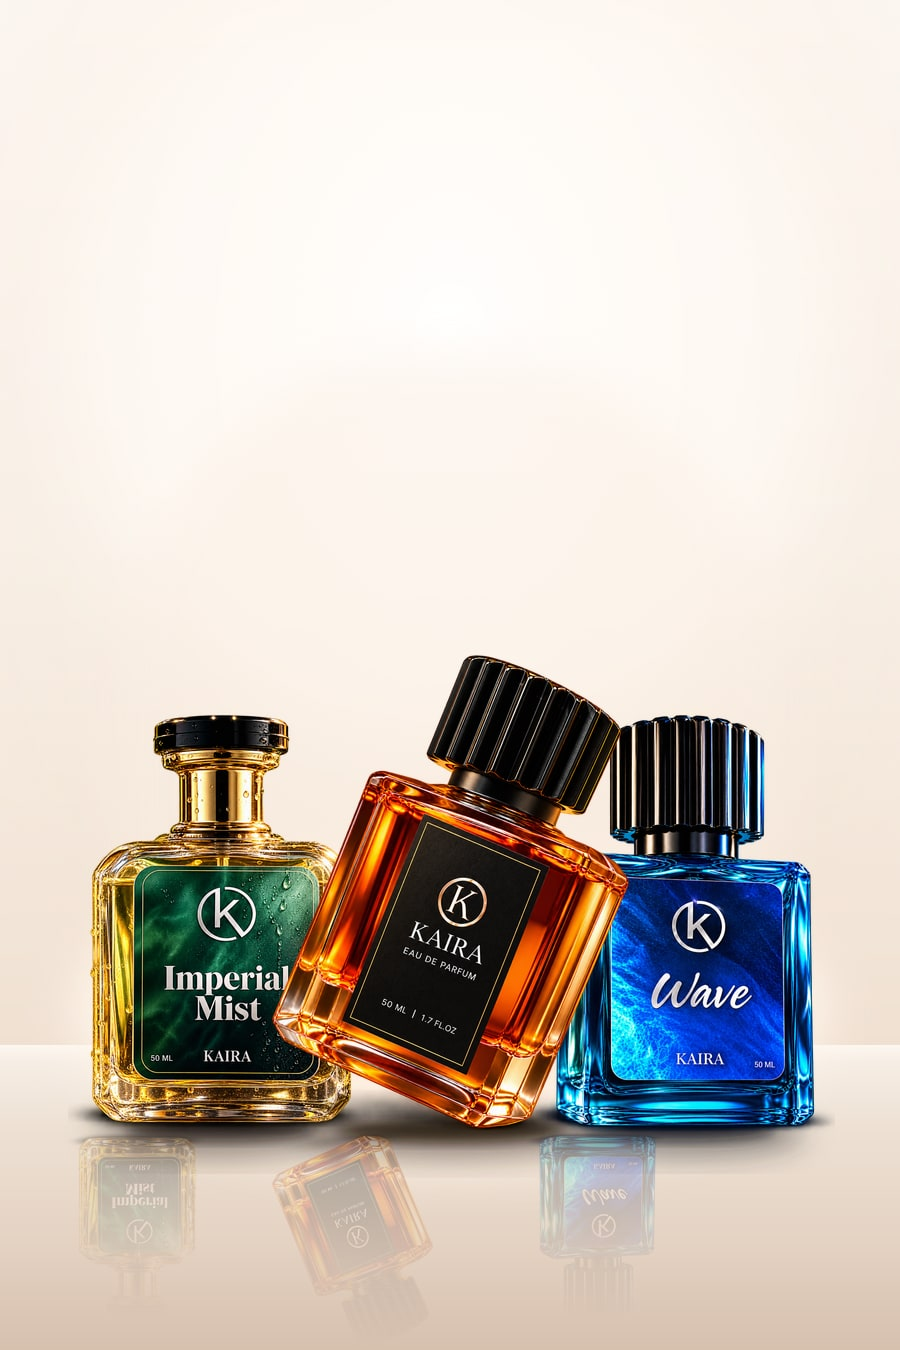
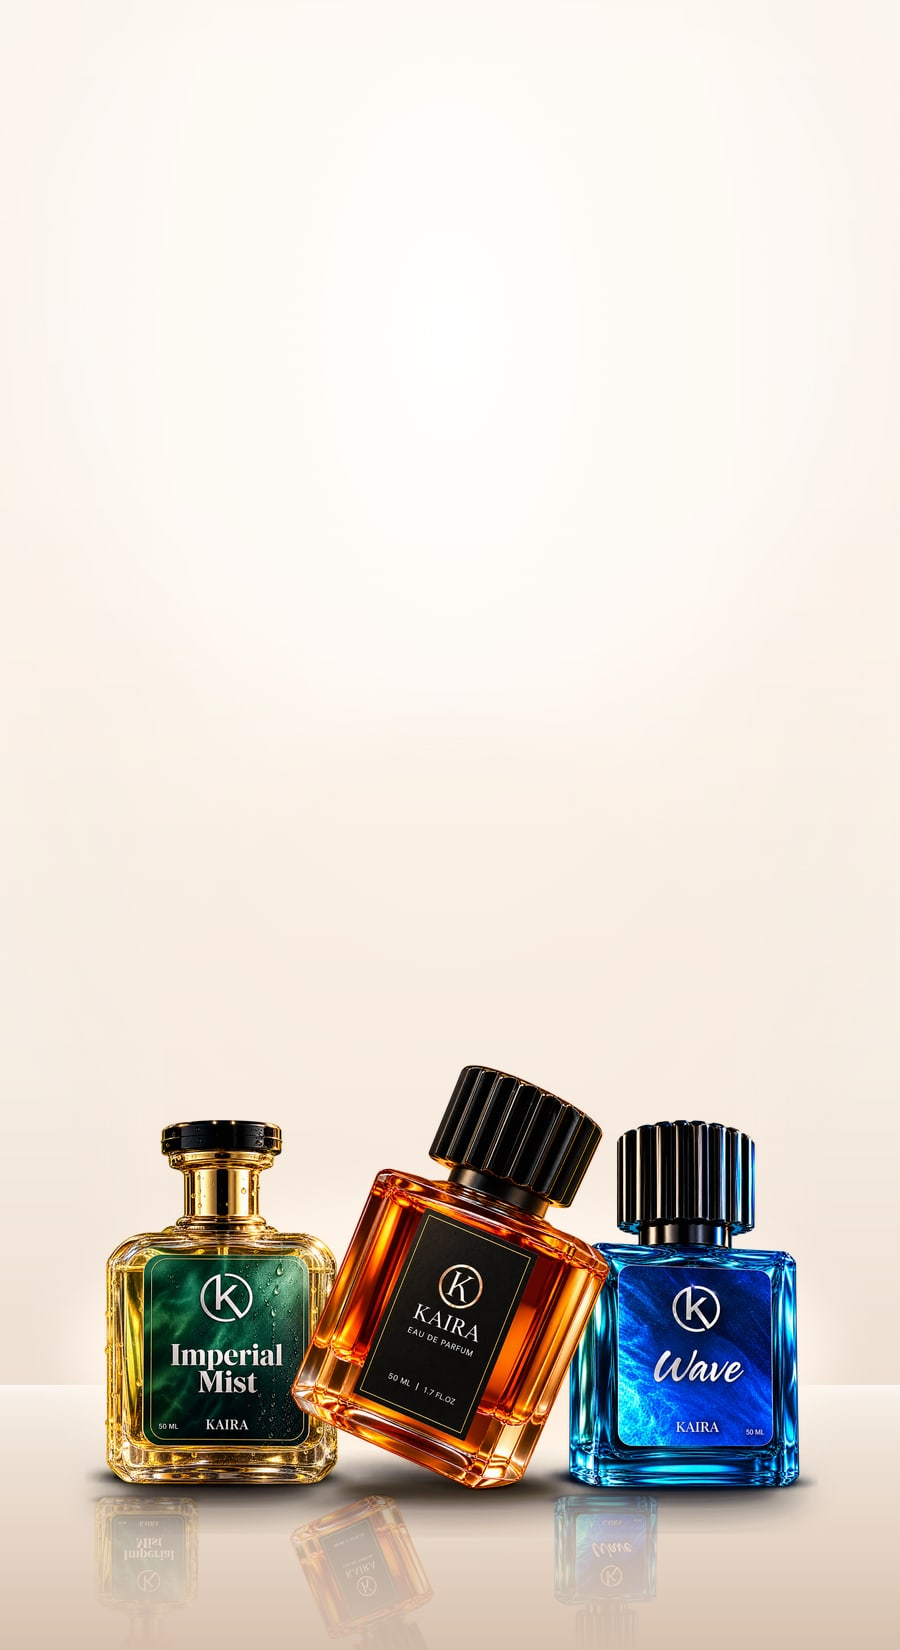
Show 4 products in 2 lines on phone, adjust mobile hero bottles lower to ensure 100% clear text and frosted trust badges

Changed region(s): [[0.0, 0.4667, 1.0, 0.9644]]

diff --git a/src/App.css b/src/App.css
@@ -6264,13 +6264,13 @@ a.hover-text-primary:hover {
     flex: none !important;
   }
 
-  /* 2. Hero Section (Spacious Luxury Mobile Layout) */
+  /* 2. Hero Section (Spacious Luxury Mobile Layout with Ultra-Clear Text) */
   .kaira-bespoke-hero {
-    min-height: 640px !important;
+    min-height: 720px !important;
   }
   .min-vh-hero {
-    min-height: 640px !important;
-    padding: 44px 0 36px !important;
+    min-height: 720px !important;
+    padding: 36px 0 28px !important;
     display: flex !important;
     flex-direction: column !important;
     justify-content: flex-start !important;
@@ -6286,51 +6286,83 @@ a.hover-text-primary:hover {
   .kaira-hero-backdrop-overlay {
     background: linear-gradient(
       180deg,
-      rgba(251, 245, 239, 0.92) 0%,
-      rgba(251, 245, 239, 0.72) 36%,
-      rgba(251, 245, 239, 0.2) 62%,
-      rgba(251, 245, 239, 0) 100%
+      rgba(253, 248, 244, 0.97) 0%,
+      rgba(253, 248, 244, 0.92) 48%,
+      rgba(253, 248, 244, 0.35) 64%,
+      rgba(253, 248, 244, 0) 100%
     ) !important;
   }
+  .kaira-hero-eyebrow {
+    font-size: 10.5px !important;
+    font-weight: 800 !important;
+    letter-spacing: 0.22em !important;
+    color: #8c6820 !important;
+  }
   .kaira-hero-headline {
-    font-size: 28px !important;
-    line-height: 1.18 !important;
+    font-size: 32px !important;
+    font-weight: 600 !important;
+    line-height: 1.16 !important;
+    color: #120f0e !important;
     margin-bottom: 12px !important;
   }
+  .kaira-hero-headline-italic {
+    color: #63121d !important;
+    font-style: italic !important;
+  }
   .kaira-hero-description {
-    font-size: 13px !important;
-    line-height: 1.55 !important;
+    font-size: 13.5px !important;
+    font-weight: 500 !important;
+    color: #2b2521 !important;
+    line-height: 1.58 !important;
     margin-bottom: 20px !important;
   }
   .kaira-hero-actions {
-    margin-bottom: 20px !important;
+    margin-bottom: 18px !important;
     display: flex !important;
     justify-content: flex-start !important;
   }
   .kaira-hero-btn-primary {
     width: auto !important;
-    max-width: 240px !important;
+    max-width: 260px !important;
     display: inline-flex !important;
-    padding: 10px 22px !important;
+    padding: 12px 26px !important;
     font-size: 10px !important;
-    letter-spacing: 0.14em !important;
-    border-radius: 2px !important;
+    font-weight: 700 !important;
+    letter-spacing: 0.16em !important;
+    border-radius: 3px !important;
+    background-color: #5d0f1a !important;
+    box-shadow: 0 4px 16px rgba(93, 15, 26, 0.35) !important;
   }
   .kaira-hero-trust-row {
-    padding-top: 16px !important;
+    padding-top: 14px !important;
     display: grid !important;
     grid-template-columns: repeat(2, 1fr) !important;
-    gap: 10px 8px !important;
+    gap: 8px !important;
+    border-top: 1px solid rgba(140, 104, 32, 0.16) !important;
   }
   .kaira-trust-item {
-    gap: 6px !important;
+    background: rgba(255, 255, 255, 0.92) !important;
+    backdrop-filter: blur(8px) !important;
+    -webkit-backdrop-filter: blur(8px) !important;
+    border: 1px solid rgba(255, 255, 255, 0.95) !important;
+    box-shadow: 0 2px 8px rgba(0, 0, 0, 0.04) !important;
+    border-radius: 6px !important;
+    padding: 7px 10px !important;
+    display: flex !important;
+    align-items: center !important;
+    gap: 7px !important;
   }
   .kaira-trust-icon {
-    width: 13px !important;
-    height: 13px !important;
+    width: 14px !important;
+    height: 14px !important;
+    color: #7c1d24 !important;
+    flex-shrink: 0 !important;
   }
   .kaira-trust-label {
-    font-size: 8.5px !important;
+    font-size: 9px !important;
+    font-weight: 700 !important;
+    color: #1a1614 !important;
+    letter-spacing: 0.12em !important;
     line-height: 1.25 !important;
   }
 

diff --git a/src/components/ModernClassics.jsx b/src/components/ModernClassics.jsx
@@ -67,22 +67,21 @@ export default function ModernClassics({
           </div>
         </div>
 
-        {/* Strictly 1-Row Showcase:
-            - Desktop/Tablet (>= 768px): 4 items in 1 row (4 columns)
-            - Mobile (< 768px): 2 items in 1 row (2 columns), items 3 & 4 hidden on small screens */}
+        {/* 4 Products Showcase:
+            - Desktop/Tablet (>= 768px): 4 items in 1 line (4 columns)
+            - Mobile (< 768px): 4 items in 2 lines (2 columns x 2 rows) */}
         <div className="kaira-human-grid">
-          {homeProducts.map((product, index) => {
+          {homeProducts.map((product) => {
             const currentSize = selectedSizes[product.id] || '50ml';
             const currentPrice =
               product.sizes?.[currentSize]?.price || (currentSize === '30ml' ? '₹349' : '₹599');
             const originalPrice = product.sizes?.[currentSize]?.originalPrice;
             const isWishlisted = wishlist.some((w) => w.id === product.id);
-            const isMobileHidden = index >= 2; // Keeps exactly 1 row on mobile (2 columns)
 
             return (
               <div
                 key={product.id}
-                className={`kaira-human-card ${isMobileHidden ? 'd-none d-md-flex' : ''}`}
+                className="kaira-human-card"
                 onClick={() => onProductSelect(product)}
               >
                 {/* Visual Stage */}
